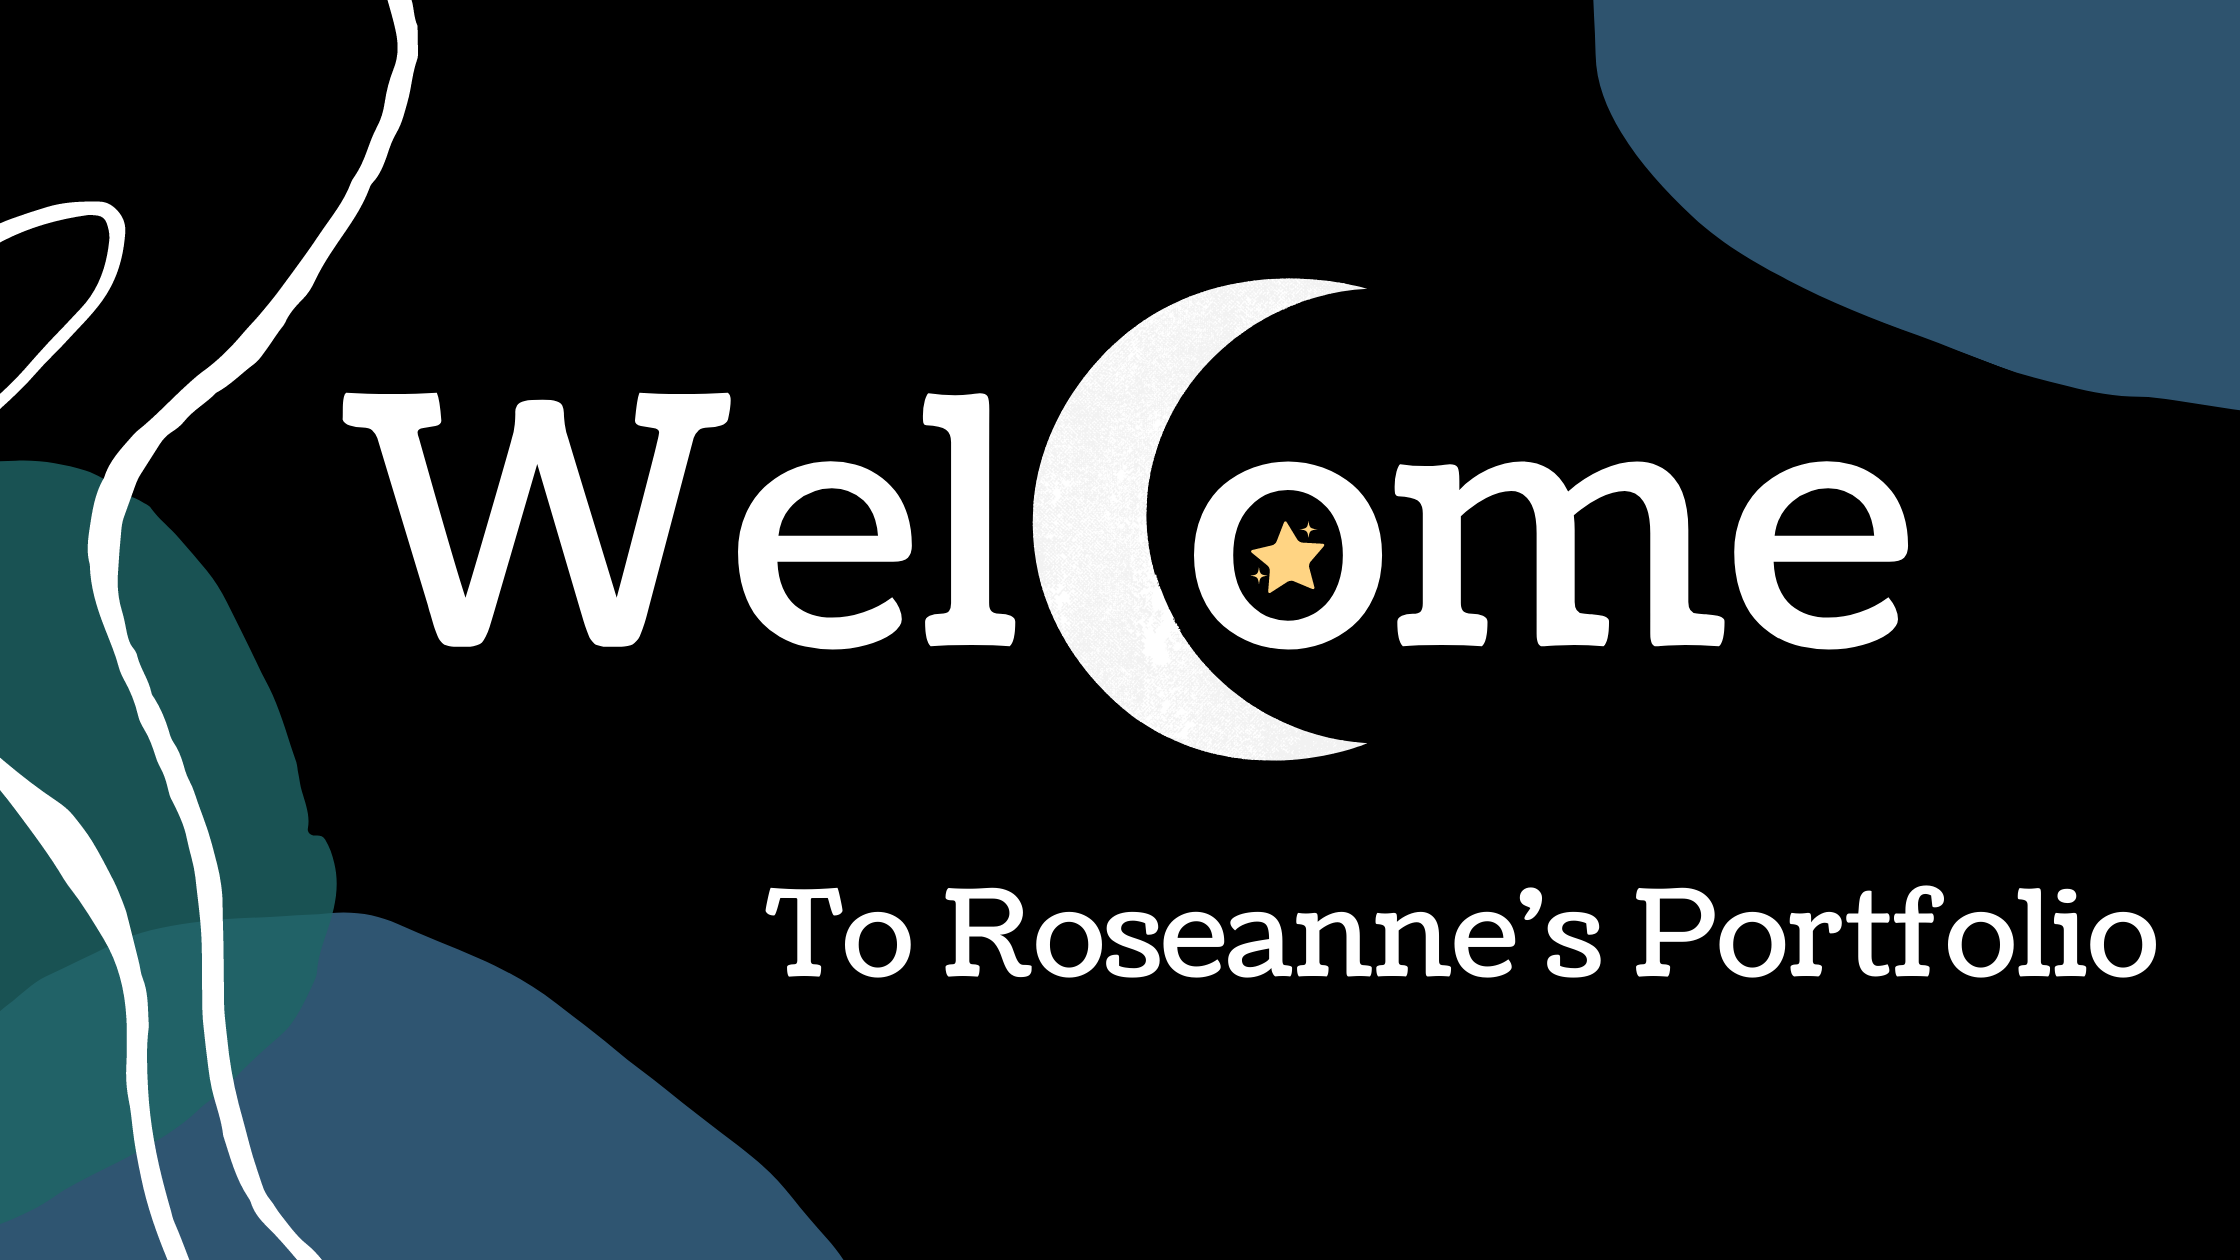
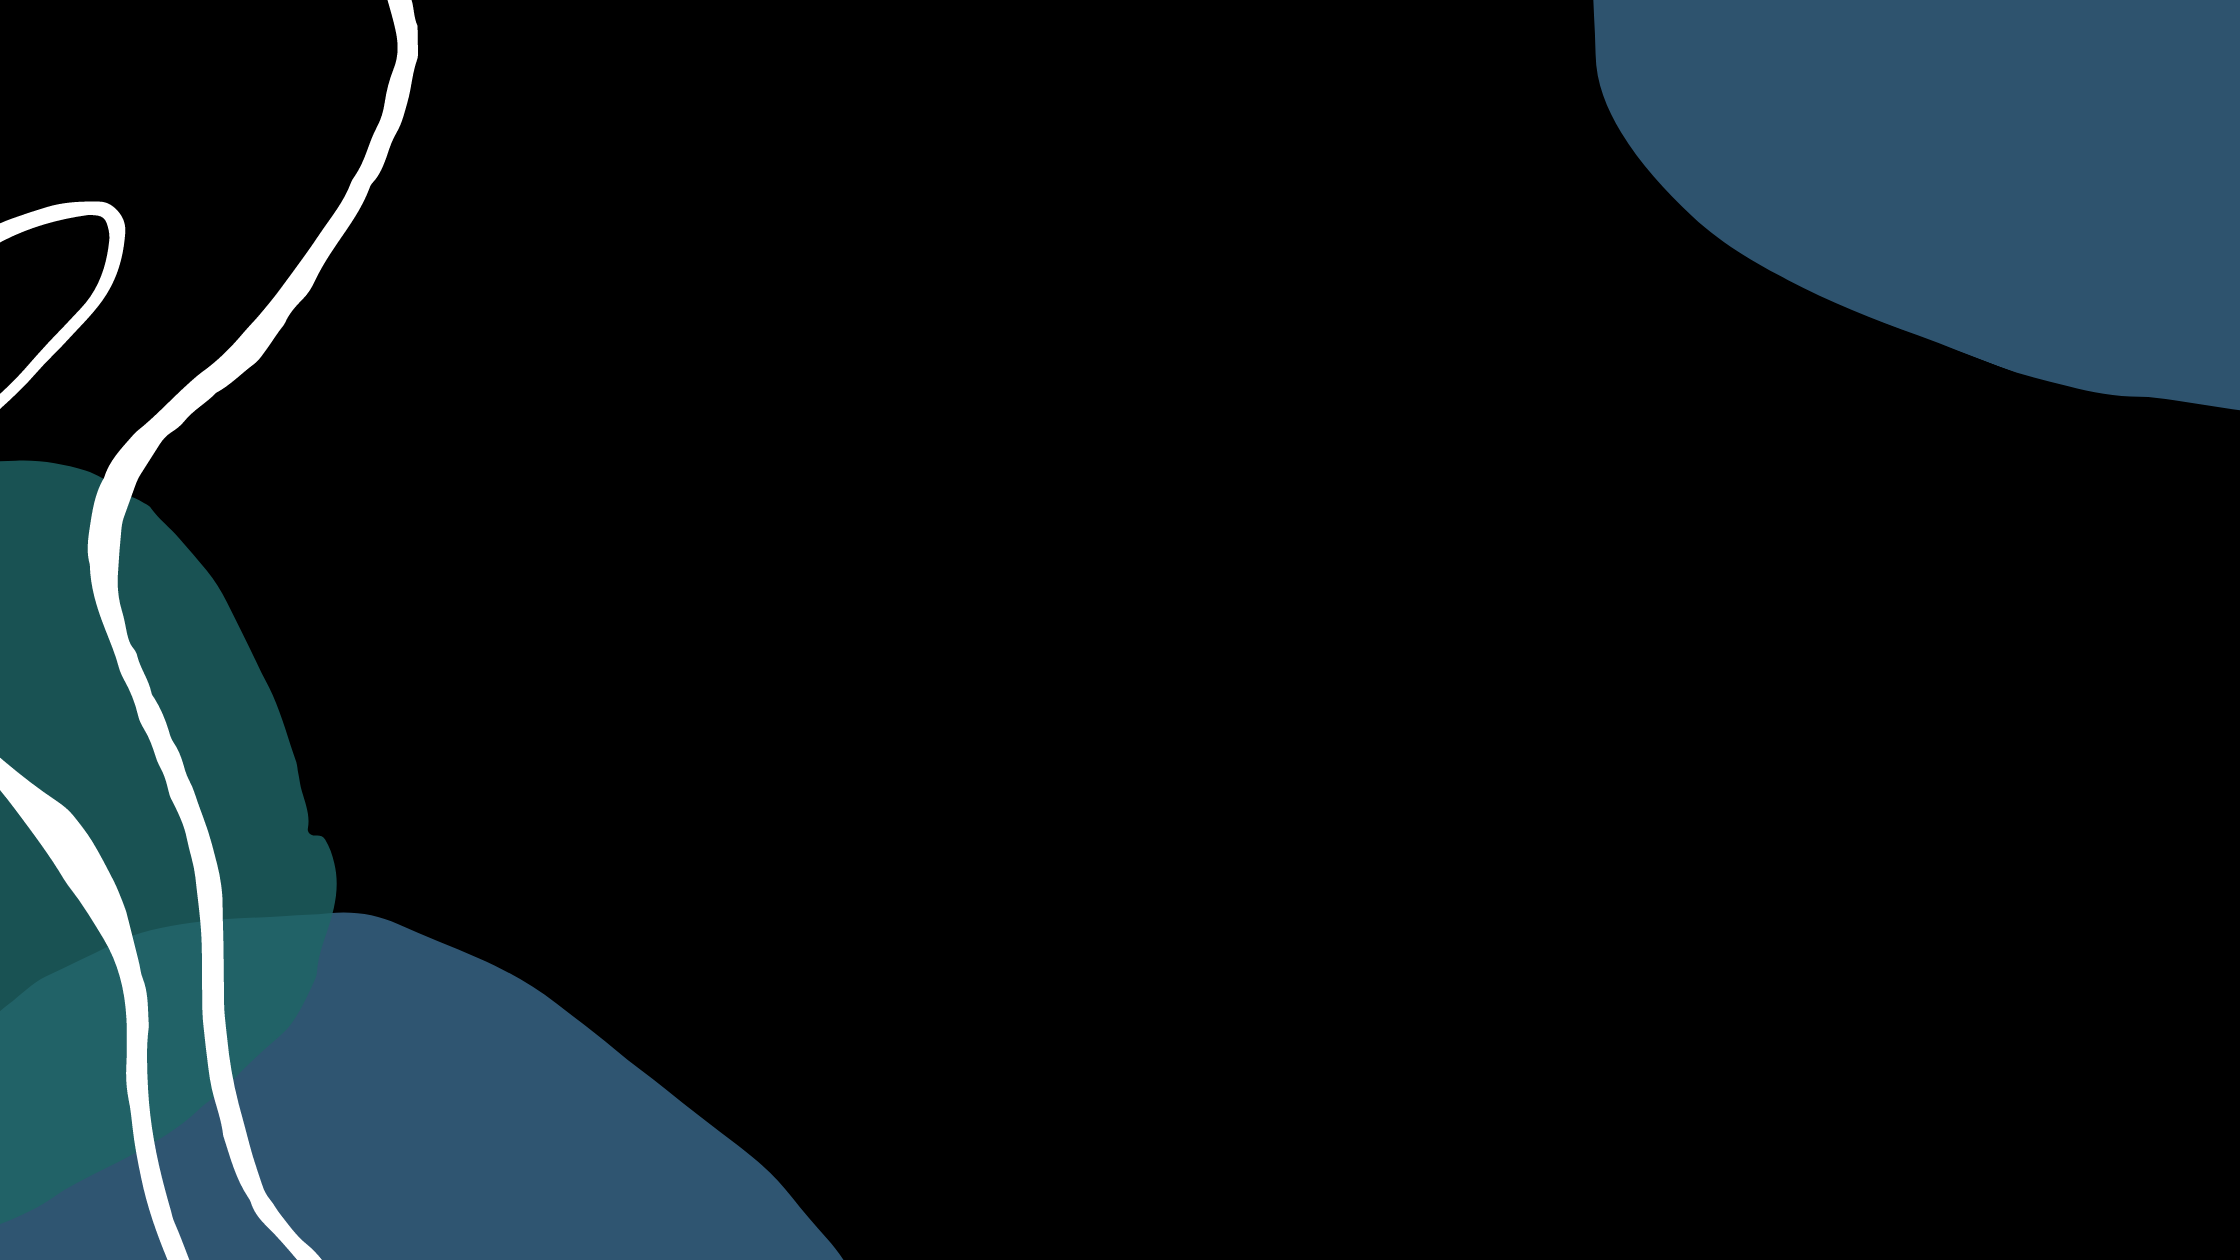
new background image

Changed region(s): [[0.1562, 0.2167, 0.875, 0.619], [0.3438, 0.681, 0.9688, 0.7738]]

diff --git a/README.md b/README.md
@@ -1,3 +1,3 @@
 # Roseanne's Portfolio
 
-:computer: [Link to Deployed Application]()
+:computer: [Link to Deployed Application](https://roseanneportfolio.herokuapp.com/)
